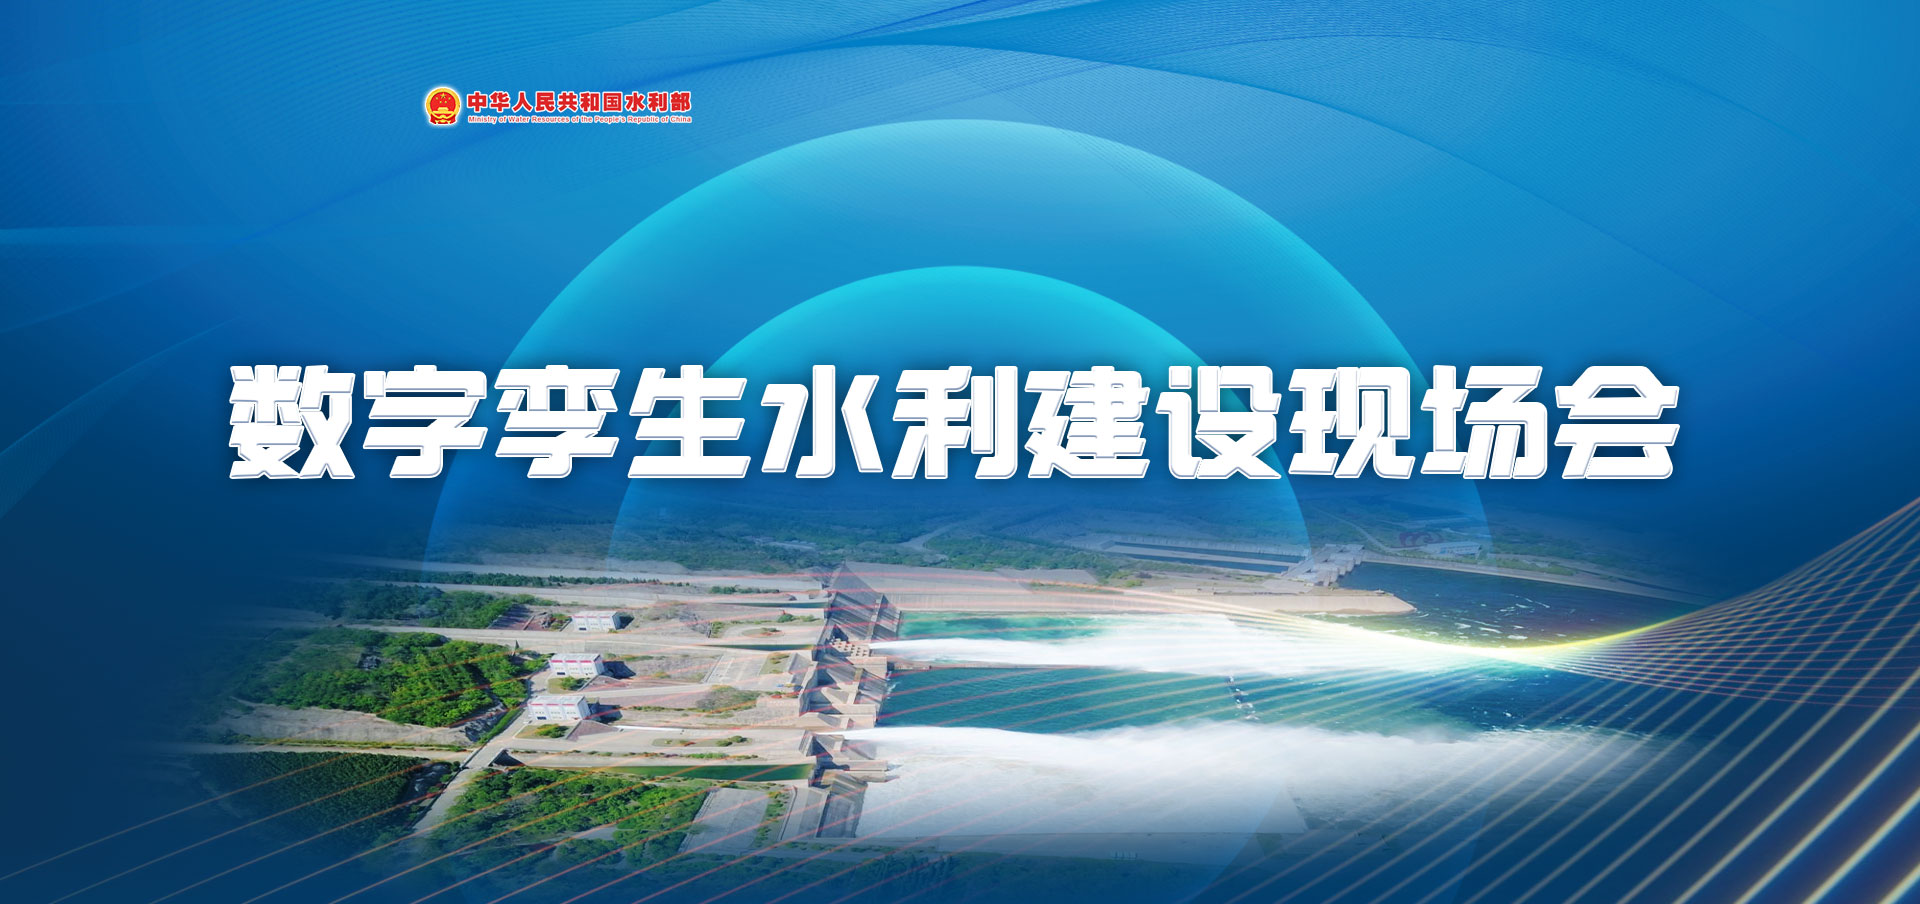
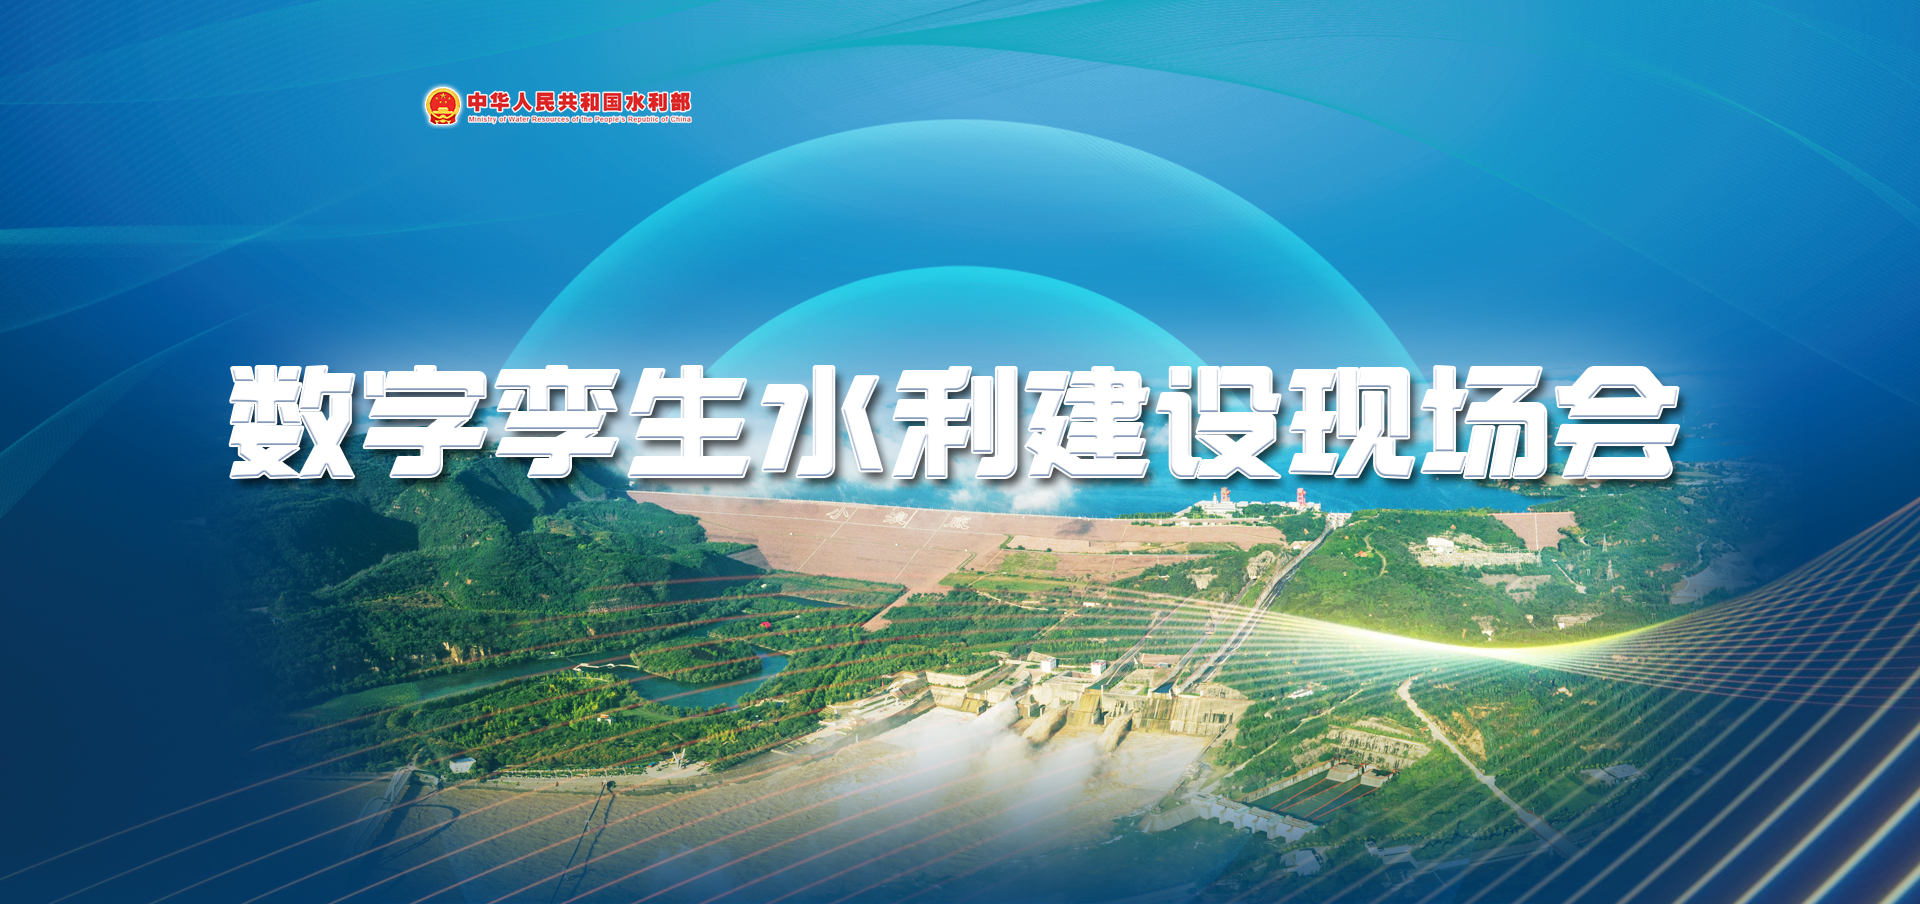
修改

diff --git a/专题/数字孪生水利建设现场会/数字孪生水利建设现场会-index.html b/专题/数字孪生水利建设现场会/数字孪生水利建设现场会-index.html
@@ -27,19 +27,19 @@
                         <div class="slick-mod">
                             <div class="slick-item">
                                 <a href="" target="_blank">
-                                    <img src="images_zt/demo.jpg" alt="" height="351px">
+                                    <img src="images_zt/demo.jpg" alt="" height="399px">
                                     <div class="tit1">水利部在小浪底水利枢纽召开数字孪生水利建设现场会</div>
                                 </a>
                             </div>
                             <div class="slick-item">
                                 <a href="" target="_blank">
-                                    <img src="images_zt/demo.jpg" alt="" height="351px">
+                                    <img src="images_zt/demo.jpg" alt="" height="399px">
                                     <div class="tit1">水利部在小浪底水利枢纽召开数字孪生水利建设现场会</div>
                                 </a>
                             </div>
                             <div class="slick-item">
                                 <a href="" target="_blank">
-                                    <img src="images_zt/demo.jpg" alt="" height="351px">
+                                    <img src="images_zt/demo.jpg" alt="" height="399px">
                                     <div class="tit1">水利部在小浪底水利枢纽召开数字孪生水利建设现场会</div>
                                 </a>
                             </div>
@@ -195,7 +195,7 @@
     <script>
     $(document).ready(function() {
         $(".slick-mod").slick({
-            dots: false,
+            dots: true,
             autoplay: true
         });
 

diff --git a/专题/数字孪生水利建设现场会/images_zt/szlssljsxch-202203-global.css b/专题/数字孪生水利建设现场会/images_zt/szlssljsxch-202203-global.css
@@ -80,14 +80,14 @@ nav a + a {
 }
 
 .tit1 {
-  position: relative;
+  position: absolute;
   bottom: 0;
   left: 0;
   right: 0;
   font-size: 16px;
   color: #ffffff;
   line-height: 40px;
-  text-indent: 2rem;
+  text-indent: 1rem;
   background: #00b0f0;
   white-space: nowrap;
   overflow: hidden;
@@ -142,8 +142,8 @@ nav a + a {
   width: 12px;
   height: 12px;
   background: #ffffff;
-  border-radius: 0%;
-  margin: 0 18px 0 0;
+  border-radius: 50%;
+  margin: 0 10px 0 0;
 }
 
 .slick-mod .slick-dots li.slick-active,
@@ -151,7 +151,7 @@ nav a + a {
   width: 12px;
   height: 12px;
   background: #e50012;
-  border-radius: 0%;
+  border-radius: 50%;
 }
 /* --- */
 .hnews {
@@ -197,7 +197,7 @@ nav a + a {
   overflow: hidden;
   text-overflow: ellipsis;
   line-height: 42px;
-  font-size: 20px;
+  font-size: 16px;
 }
 .list li::before {
   content: "";
